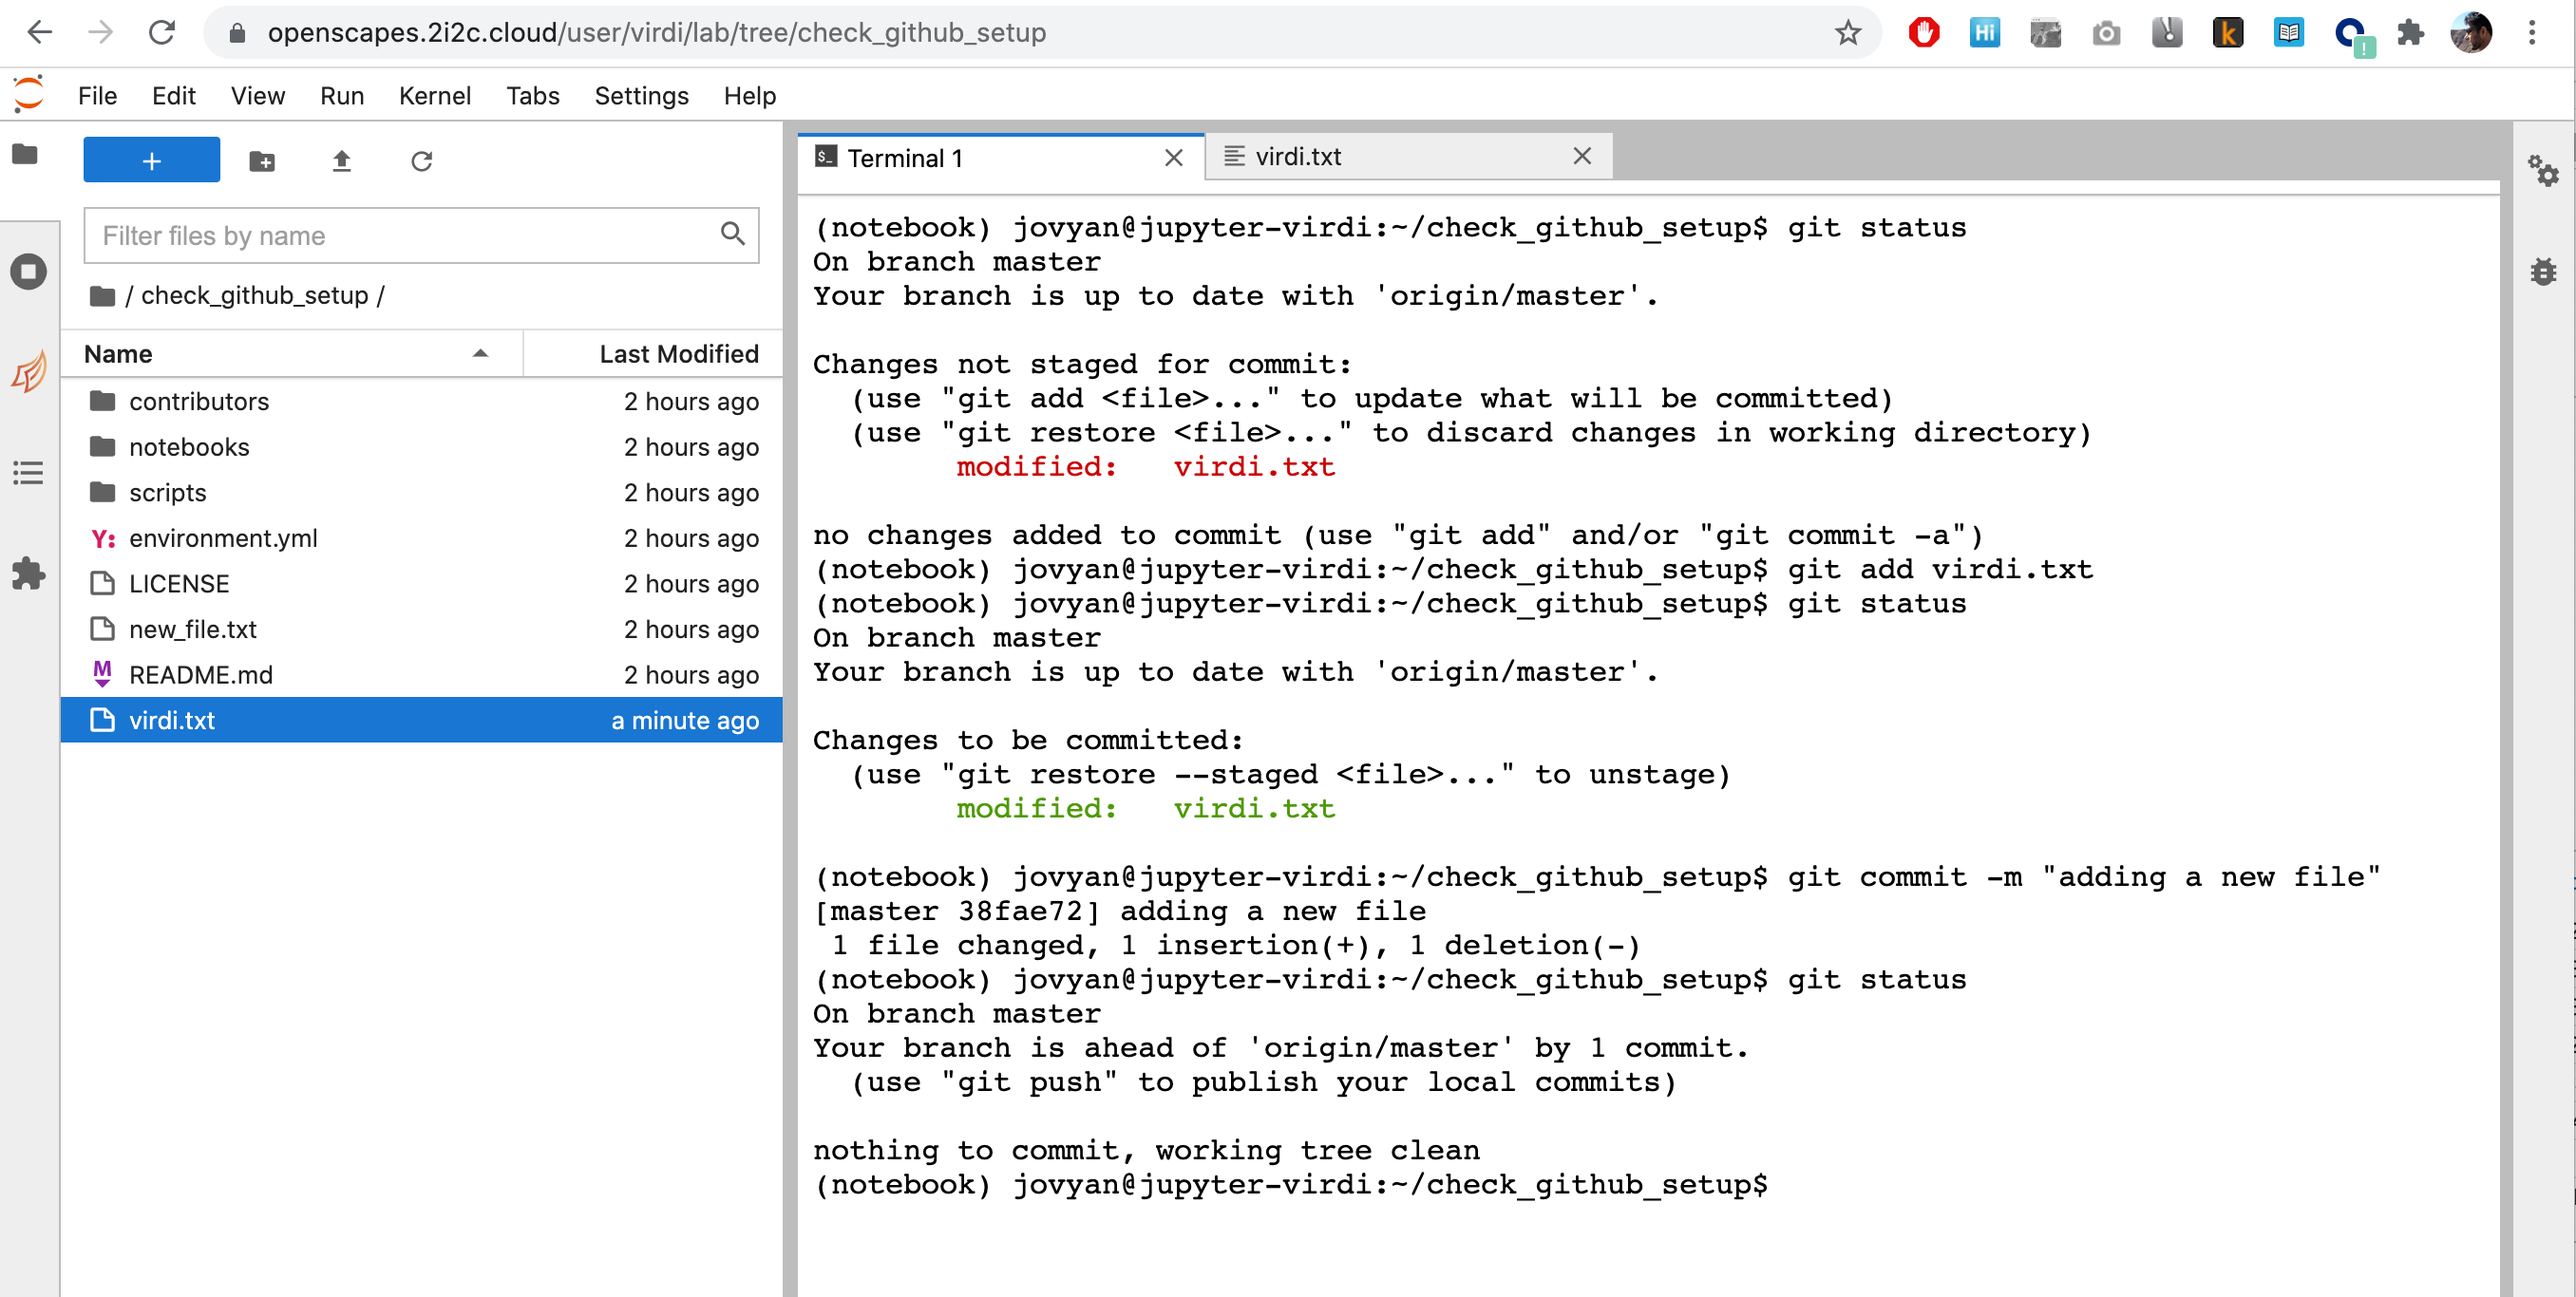
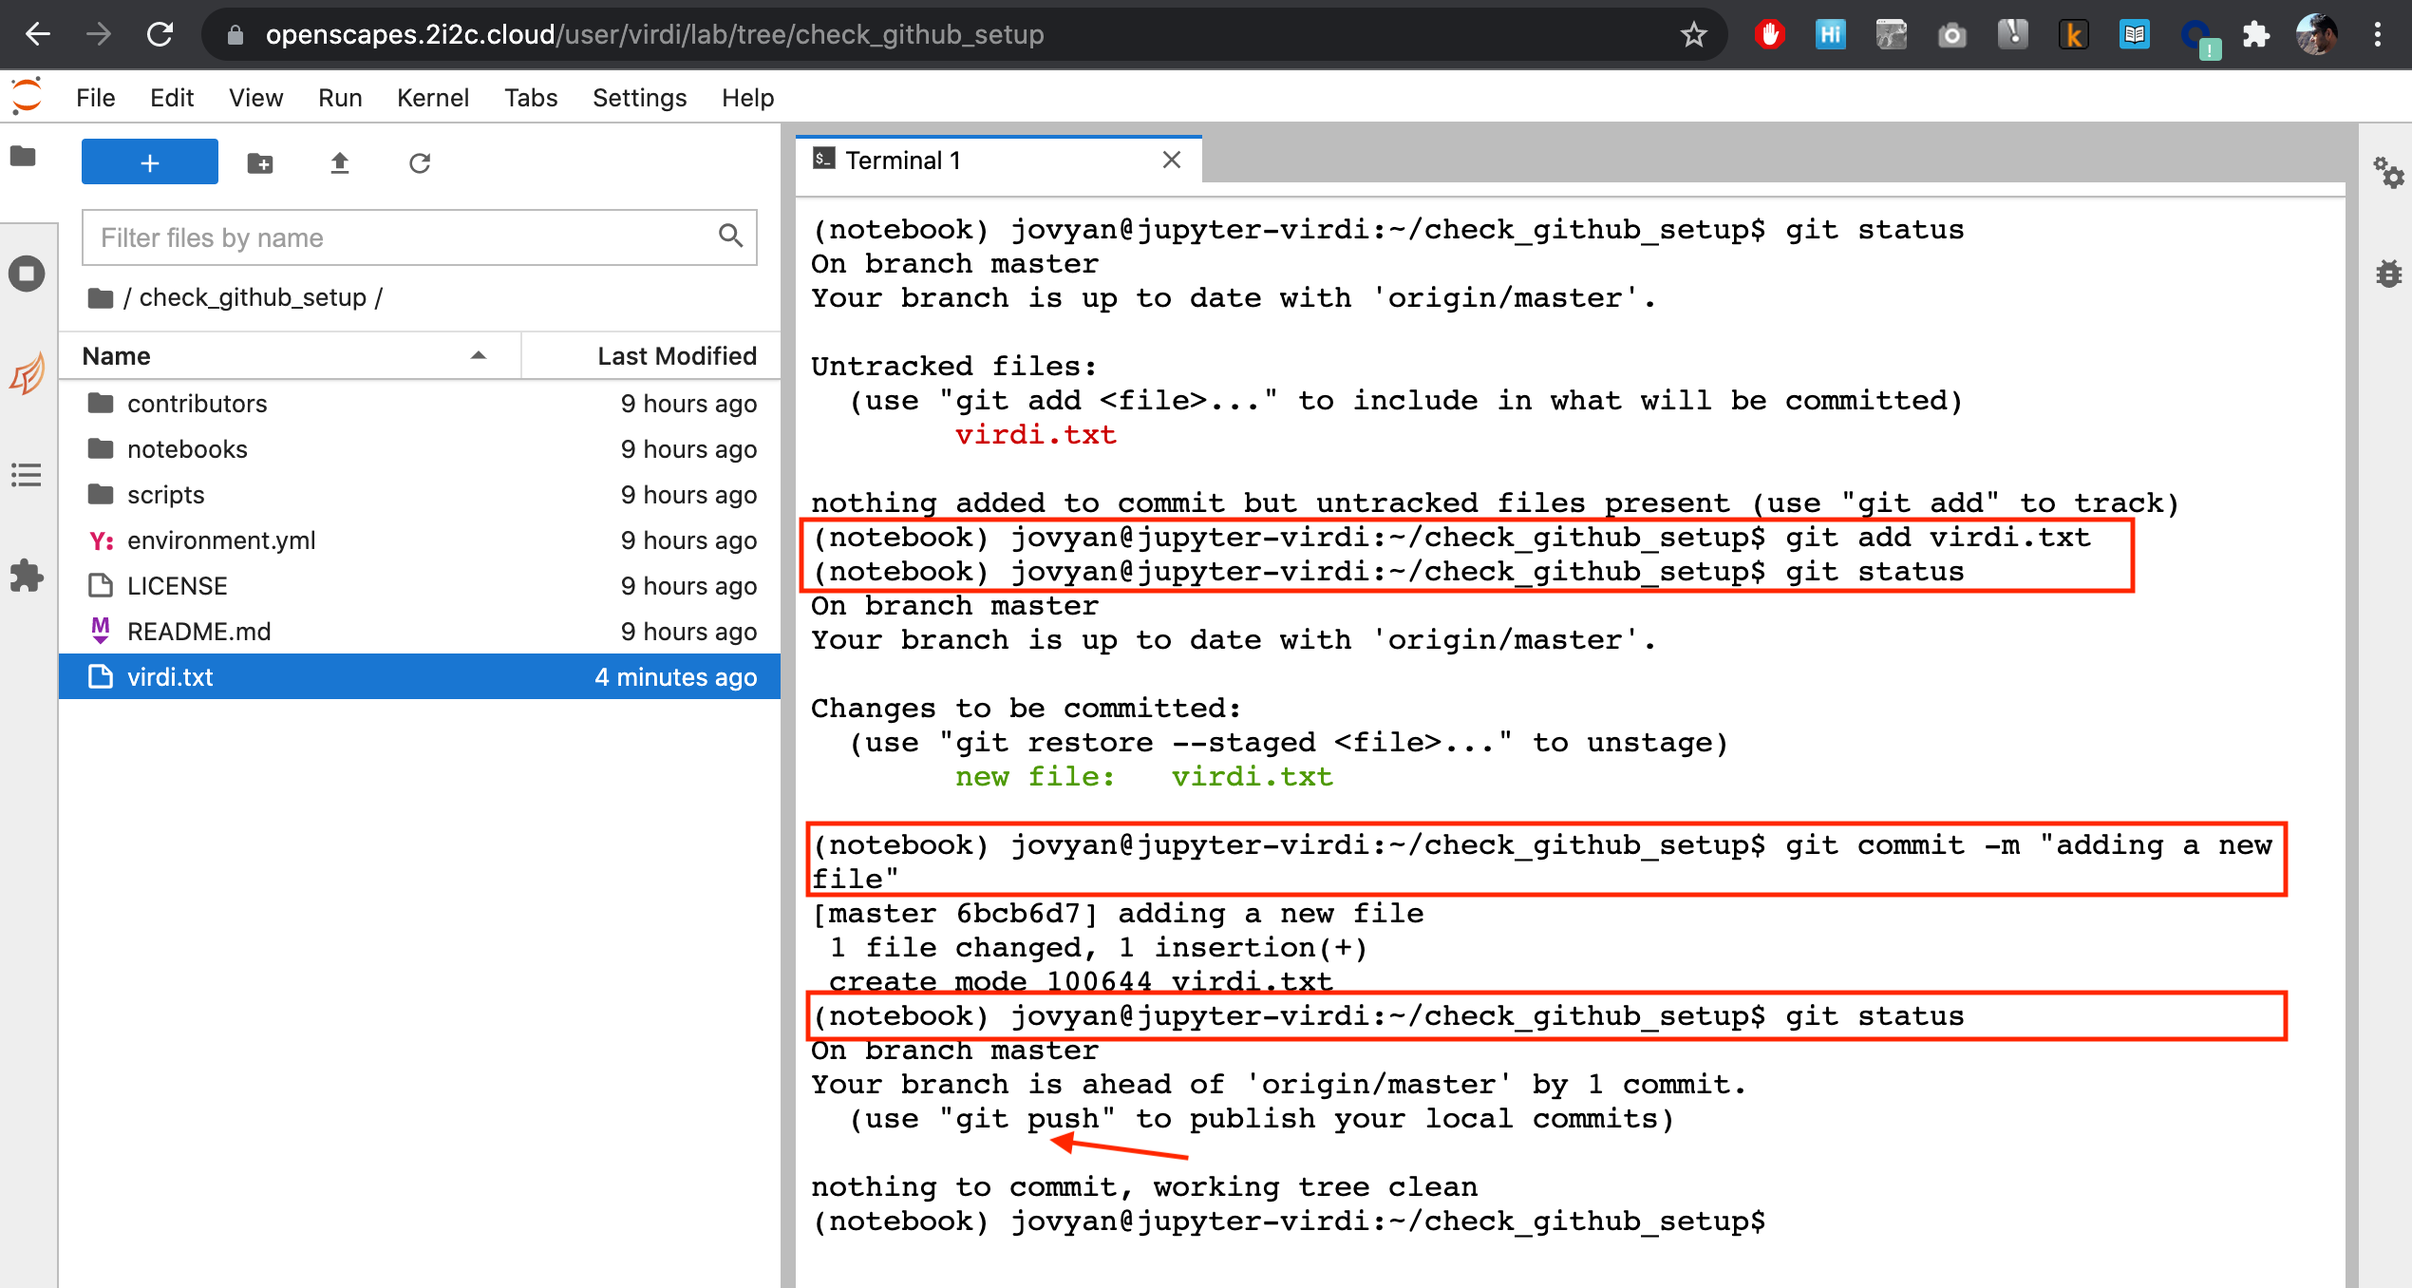
updating notebooks.md with suggestions from @ScienceCat18 and @jules32

Changed region(s): [[0.0, 0.0, 1.0, 1.0]]

diff --git a/clinic/notebooks.md b/clinic/notebooks.md
@@ -31,7 +31,7 @@ Detailed self-paced lesson on shell: [Shell Lesson from Software Carpentry](http
 
 Version control is managing and tracking changes to your documents (program source code, images, websites, data files, etc.). `git` is a popular tool used for version control of software code. [github.com](https://github.com/) is popular platform that provides remote server hosting for git repositories. A repository is a collection of various files that you are tracking for changes and versions (think of it as a directory with files that are being tracked for changes, using `git` for taking snapshots of versions as you are developing).
 
-This section is a step-by-step guide to set up `git` on your [2i2c instance](openscapes.2i2c.cloud) and configure `git` to use your [github.com](https://github.com/) account for managing your repositories hosted on [github.com](https://github.com/). There are 5 main steps with substeps, includes instruction for addressing github's new approach for [token authentication](https://github.blog/changelog/2021-08-12-git-password-authentication-is-shutting-down/).
+This section is a step-by-step guide to set up `git` on your [2i2c JupyterHub instance](openscapes.2i2c.cloud) (referred to as `2i2c JupyterHub` in these instruction). We will also configure `git` to use your [github.com](https://github.com/) account for managing your repositories hosted on [github.com](https://github.com/). There are 5 main steps with substeps, includes instruction for addressing github's new approach for [token authentication](https://github.blog/changelog/2021-08-12-git-password-authentication-is-shutting-down/).
 
 ### Step 1: Create a github account
 
@@ -55,38 +55,42 @@ A **fork** is a copy of a repository from another github account (for example **
 
 Now you have a fork of the demo repository in your github account that we can `clone` it in your 2i2c instance. In the code below, commands beginning with `git` is a git command for version control and synching; commands that don't start with `git` are bash/linux/command line commands.
 
-1.  Copy link for the demo repository from your github account. Click the green "Code" button and copy the link as shown.
-
-    ![](img/github-clone.png)
-
-2.  Start your [2i2c instance](https://openscapes.2i2c.cloud) and open a terminal
+1.  Start your [2i2c JupyterHub](https://openscapes.2i2c.cloud) and open a terminal
 
     `File >> New >> Terminal`
 
-3.  Make sure you are in your **home directory** by using`pwd` command and verifying the output as below
+2.  Make sure you are in your **home directory** by using`pwd` command and verifying the output as below
 
     `/home/jovyan`
 
     ![](img/terminal-pwd.png){width="520"}
 
-4.  Configure git with your name and email address
+3.  Configure git with your name and email address.
 
     ``` bash
     git config --global user.name "Makhan Virdi"
     git config --global user.email "Makhan.Virdi@gmail.com"
     ```
 
-5.  Configure `git` to store your github credentials to avoid having to enter your github username and token (in [Step 5](#step-5.-create-access-token-on-github.com), we will describe how to use github token instead of a password)
+    **Note:** This name and email could be different from your github.com credentials. Remember `git` is a program that keeps track of your changes locally (on 2i2c JupyterHub or your won computer) and github.com is a platform to host your repositories. However, since your changes are tracked by `git`, the email/name used in git configuration will show up next to your contributions on gihub.com when you `push` your repository to github.com (`git push` is discussed in a later step).
+
+4.  Configure `git` to store your github credentials to avoid having to enter your github username and token (in [Step 5](#step-5.-create-access-token-on-github.com), we will describe how to use github token instead of a password)
 
     ``` bash
     git config --global credential.helper store
     ```
+
+5.  Copy link for the demo repository from your github account. Click the green "Code" button and copy the link as shown.
+
+    ![](img/github-clone.png)
 
 6.  Clone the repository using `git clone` command in the terminal
 
     To clone a repository from github, copy the link for the repository (previous step) and use `git clone`:
 
     `git clone https://github.com/YOUR-GITHUB-USERNAME/check_github_setup`
+
+    **Note:** Replace `YOUR-GITHUB-USERNAME` here with your github.com username. For example, it is `virdi` for my github.com account as seen in this image.
 
     ![](img/terminal-clone.png){width="520"}
 
@@ -102,19 +106,19 @@ Now you have a fork of the demo repository in your github account that we can `c
 
     ![](img/terminal-git-status.png)
 
-    You are all set with git on your 2i2c instance!
+    You are all set with using git on your 2i2c JupyterHub!
 
     In the next step, we will create a new file in this repository, track changes to this file, and link it with your github.com account.
 
 ### Step 4. Creating new file and tracking changes
 
-1.  In the left panel on your 2i2c, click on the "directory" icon and then double click on "check_github_setup" directory.
+1.  In the left panel on your 2i2c JupyterHub, click on the "directory" icon and then double click on "check_github_setup" directory.
 
     ![](img/notebook-cd.png)
 
     ![](img/notebook-cd-result.png)
 
-2.  Once you are in **check_github_setup** directory, create a new file using the text editor in your 2i2c instance (`File >> New >> File`).
+2.  Once you are in **check_github_setup** directory, create a new file using the text editor in your 2i2c JupyterHub (`File >> New >> File`).
 
     ![](img/%20notebook-new-file.png)
 
@@ -124,17 +128,26 @@ Now you have a fork of the demo repository in your github account that we can `c
 
 3.  Now you should have a new file (your_last_name.txt) in the git repository directory **check_github_setup**
 
-4.  Check if `git` can see that you have added a new file using `git status`
+4.  Check if `git` can see that you have added a new file using `git status`. Git reports that you have a new file that is not tracked by git yet, and suggests adding that file to the git tracking system.
 
     ![](img/git-status.png)
 
-5.  Git wants you to add that file so it can be tracked for changes, using `git add` The, you can commit this change using `git commit` as shown here
+5.  As seen in this image, `git` suggests adding that file so it can be tracked for changes. You can add file to `git` for tracking changes using `git add`. Then, you can commit changes to this file's content using `git commit` as shown in the image.
+
+    ``` bash
+    git add virdi.txt
+    git status
+    git commit -m "adding a new file"
+    git status
+    ```
 
     ![](img/git-add-commit.png)
 
-6.  As seen in the above picture, `git` is suggesting you to push the change that you just committed to the remote server at github.com (so that your collaborators can also see what changes you made). **Before we push to github.com**, let's configure `git` further and store our github.com credentials to avoid entering the credentials every time we invoke `git push`. For doing so, we need to create a **token** on github.com to be used in place of your github.com password.
+6.  As seen in the image above, `git` is suggesting you to push the change that you just committed to the remote server at github.com (so that your collaborators can also see what changes you made).
 
-### Step 5. Create access token on github.com
+    **Note: DO NOT** execute `push` yet. Before we push to github.com, let's configure `git` further and store our github.com credentials to avoid entering the credentials every time we invoke `git push`. For doing so, we need to create a **token** on github.com to be used in place of your github.com password.
+
+### Step 5. Create access token on github.com {#step-5.-create-access-token-on-github.com}
 
 1.  Go to your github account and create a new "personal access token": <https://github.com/settings/tokens/new>
 
@@ -152,7 +165,7 @@ Now you have a fork of the demo repository in your github account that we can `c
     git push
     ```
 
-    **Note:** When you paste your token in the terminal window, windows users will press Ctrl+V and mac os users will press Cmd+V
+    **Note:** You will be prompted to enter your github username and "password". When prompted for your "password", DO NOT use your github password, use the **github Token** that was copied in the previous step. When you paste your token in the terminal window, windows users will press Ctrl+V and mac os users will press Cmd+V. If it does not work, try generating another token and use the copy icon next to the token to copy the token. The, paste using your computer's keyboard shortcut for paste.
 
 4.  Now your password is stored in "`~/.git-credentials`" and you will not be prompted again unless the Github token expires. You can check the presence of this git-credentials file using Terminal. Here `~` character represents your home directory (`/home/jovyan/`).
 
